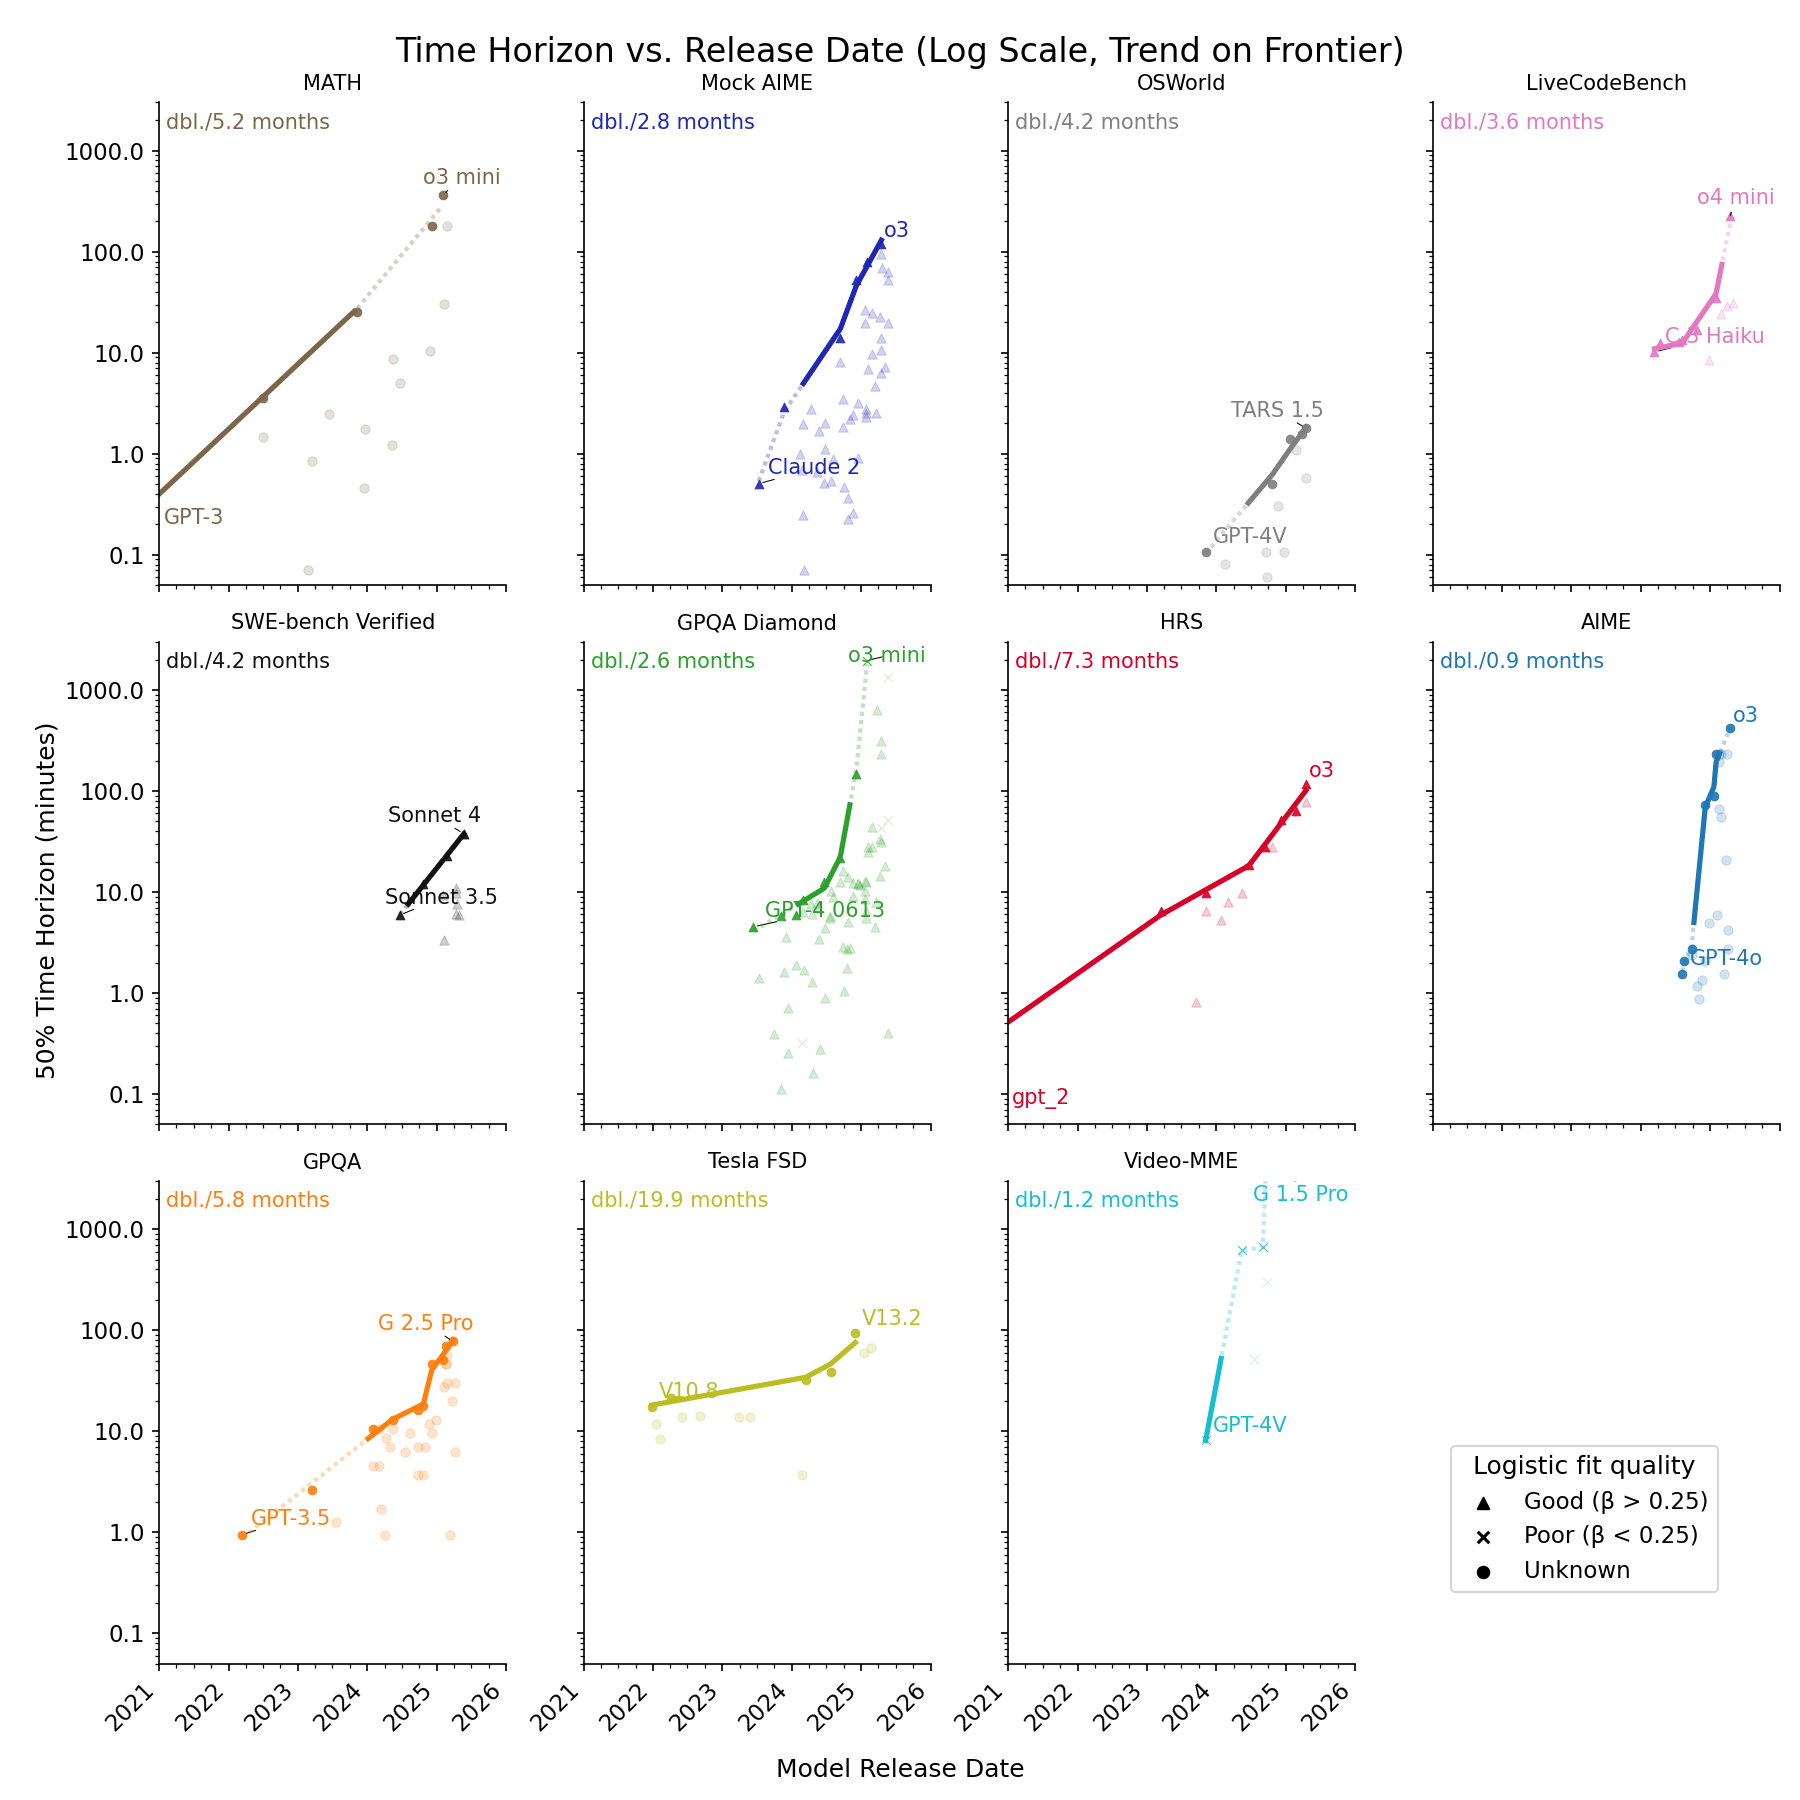
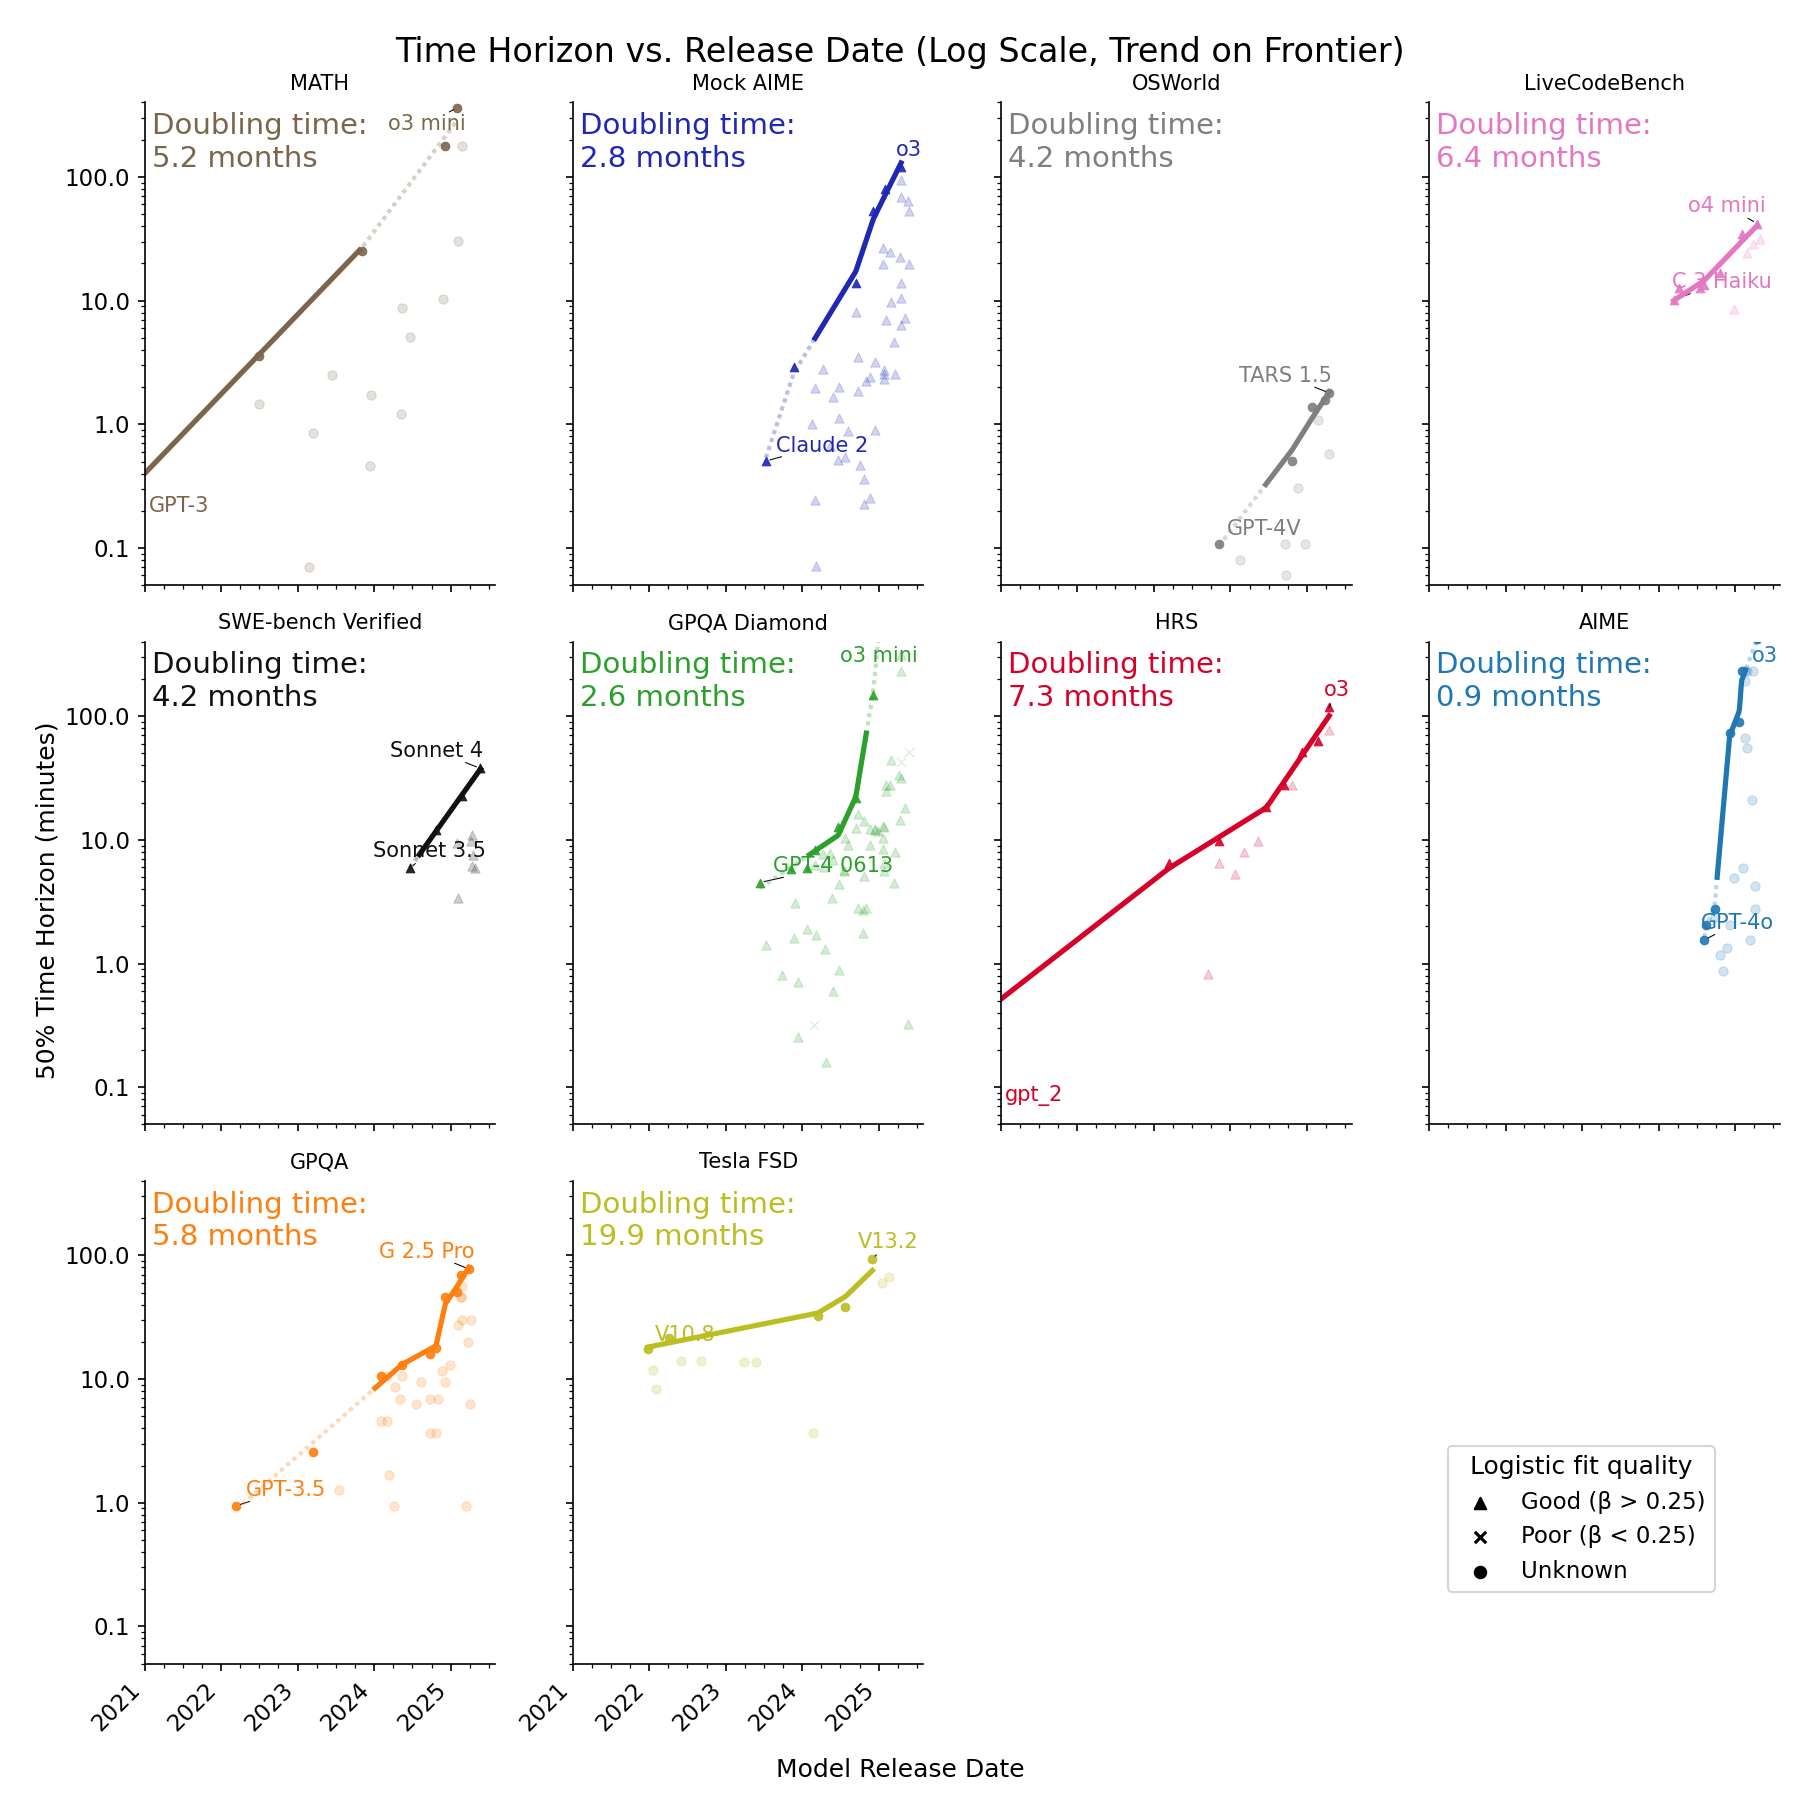
doubling time text format

diff --git a/plots.py b/plots.py
@@ -240,8 +240,8 @@ def plot_lines_over_time(df, output_file,
             mid_x = mdates.num2date(mid_x_num)
             
             if params.show_doubling_rate:
-                rate_text = f"dbl./{months_per_doubling:.1f} months"
-                ax.text(0.02, 0.98, rate_text, fontsize=10, color=color, 
+                rate_text = f"Doubling time:\n{months_per_doubling:.1f} months"
+                ax.text(0.02, 0.98, rate_text, fontsize=14, color=color, 
                         ha='left', va='top', transform=ax.transAxes, 
                         bbox=dict(facecolor='white', alpha=0.7, pad=2, edgecolor='none'))
 
@@ -289,7 +289,7 @@ def plot_lines_over_time(df, output_file,
 
     ax.set_yscale('log')
     ax.yaxis.set_major_formatter(mticker.StrMethodFormatter('{x}'))
-    plt.ylim(0.05, 3000)
+
 
     if params.subplots:
         fig.suptitle(params.title)
@@ -316,6 +316,8 @@ def plot_lines_over_time(df, output_file,
 
     if params.ybound is not None:
         ax.set_ylim(params.ybound)
+    else:
+        plt.ylim(0.05, 3000)
 
 
     # Create a legend
@@ -704,7 +706,7 @@ def main():
             title="HRS Time Horizons (full method vs average-scores-only)",
             show_benchmarks=["hcast_r_s", "hcast_r_s_full_method"], show_points_level=ShowPointsLevel.FRONTIER,)
         )
-        plot_lines_over_time(all_df.copy(), LINES_SUBPLOTS_OUTPUT_FILE, benchmark_data, LinesPlotParams(hide_benchmarks=["hcast_r_s_full_method"], show_points_level=ShowPointsLevel.ALL, subplots=True, show_doubling_rate=True, xbound=("2021-01-01", "2026-01-01")))
+        plot_lines_over_time(all_df.copy(), LINES_SUBPLOTS_OUTPUT_FILE, benchmark_data, LinesPlotParams(hide_benchmarks=["hcast_r_s_full_method", "video_mme"], show_points_level=ShowPointsLevel.ALL, subplots=True, show_doubling_rate=True, xbound=("2021-01-01", "2025-08-01"), ybound=(0.05, 400)))
 
 
     # --- Benchmark Task Lengths Plot ---
